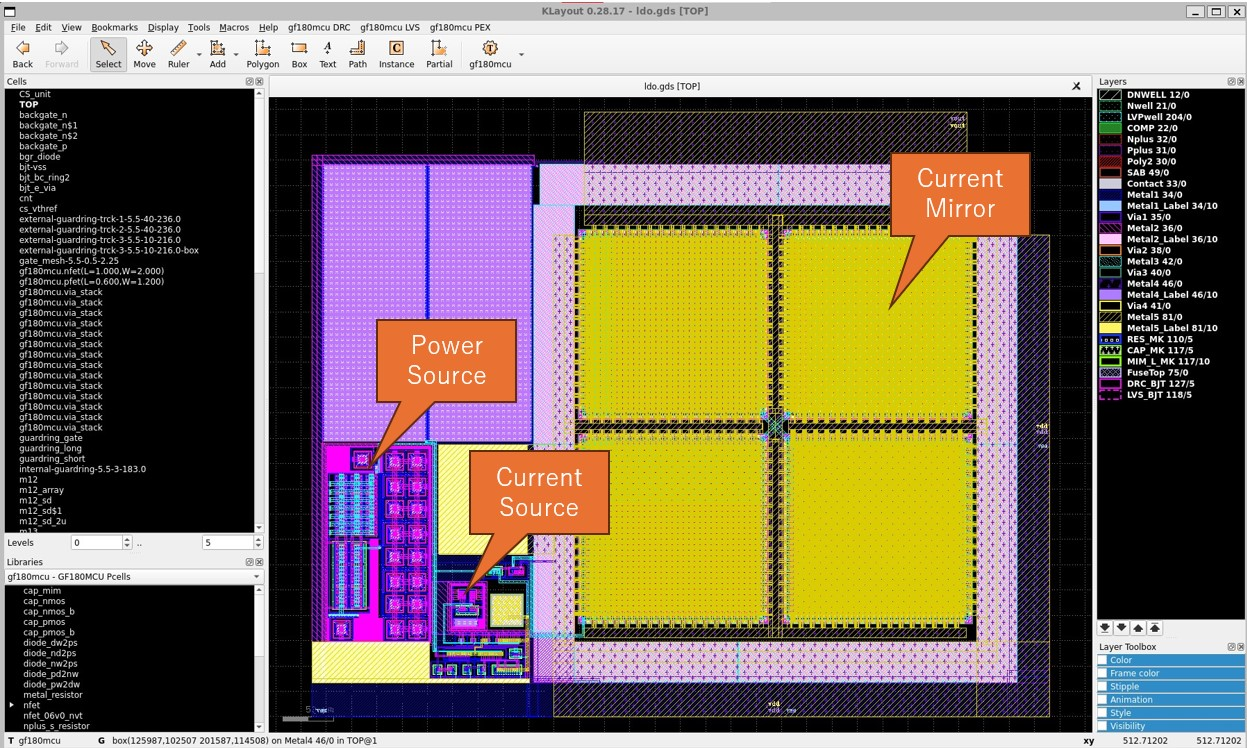
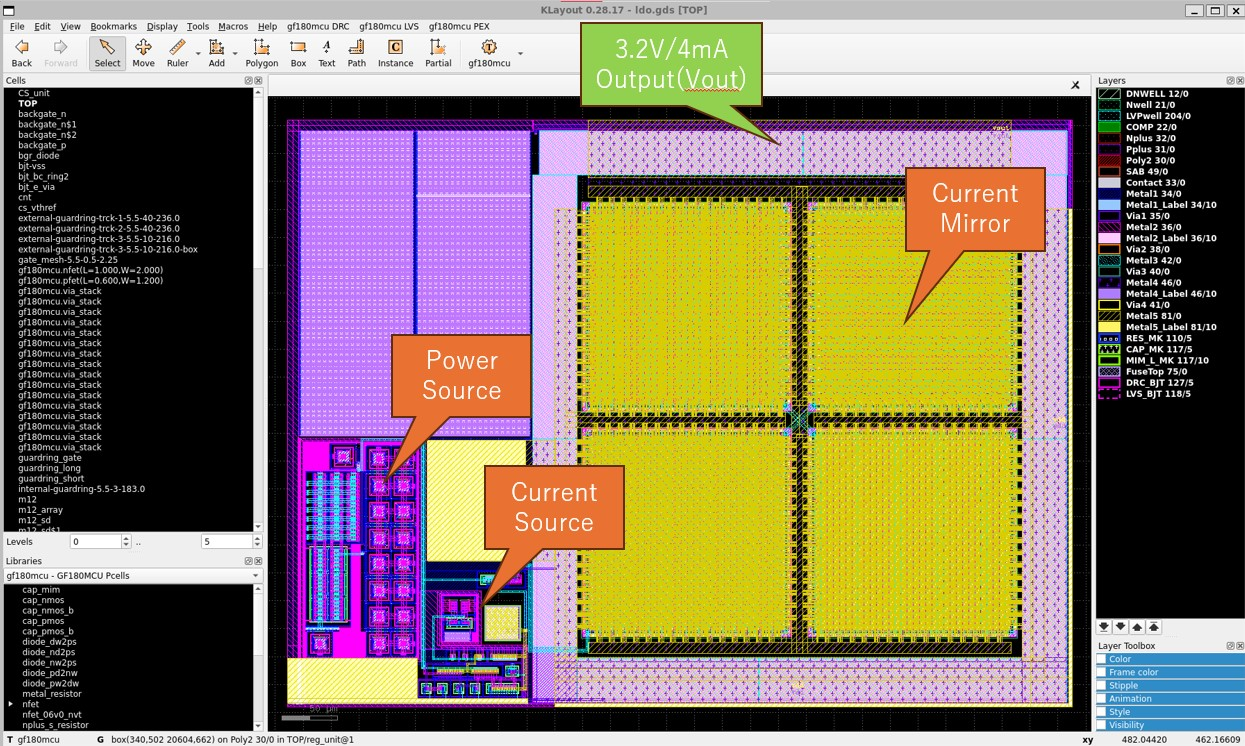
Update README.
Update README.

diff --git a/noritsuna/ldo/README.md b/noritsuna/ldo/README.md
@@ -10,10 +10,16 @@
         - 700um x 550um
     - In Voltage (VDD)
         - 3.3V
+        - Layer4&5(Right Side)
+        - Layer2&4&5(Left Side)
+    - GND (VSS)
+        - Layer1
     - Out Voltage (Vout)
         - 3.2V
+        - Layer4&5
     - Out Ampere (Vout)
         - 4mA
+        - Layer4&5
 
 ## Other Parts
 - [Power Source (Band Gap Reference)](https://github.com/atuchiya/DC23-LTC2/tree/japan-test/BGR)
